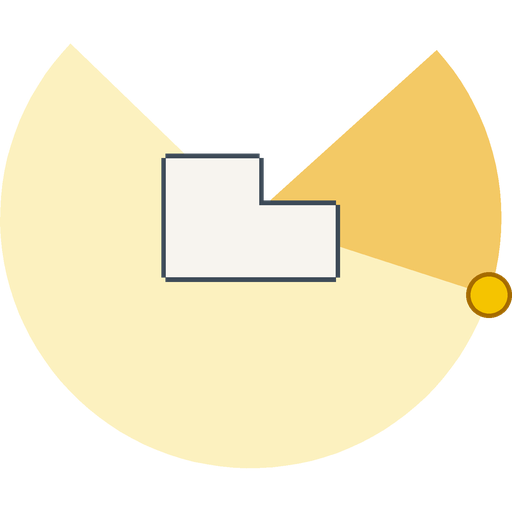
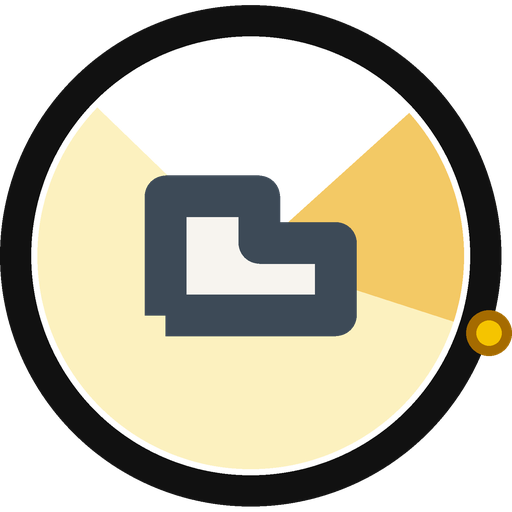
🤖 Draw a heavier ring on the brand mark
The logo and icon were too fine to read at the size Home Assistant shows them.

diff --git a/scripts/brand.py b/scripts/brand.py
@@ -31,6 +31,8 @@ PALE = (246, 216, 74, 90)
 STRONG = (240, 180, 41, 184)
 SUN = (245, 196, 0, 255)
 SUN_EDGE = (165, 107, 0, 255)
+RING = (17, 17, 17, 255)
+RING_HALO = (255, 255, 255, 255)
 
 # A northern summer day: sunrise in the north-east, sun mid-morning, sunset north-west.
 RISE, NOW, SET = 48.0, 108.0, 314.0
@@ -67,24 +69,39 @@ def _house(centre: float, rim: float) -> list[tuple[float, float]]:
     return [(centre + east * scale, centre - north * scale) for east, north in corners]
 
 
+def _weights(rim: float) -> tuple[int, int, int]:
+    """Ring, a slim light edge, and a house stroke heavier than the ring.
+
+    The mark is shown at a few dozen pixels, so the strokes are a larger
+    share of the disc than on the card.
+    """
+    ring = max(3, round(rim / 8))
+    halo = ring + max(4, round(rim / 40))
+    house = max(ring, round(rim / 6))
+    return ring, halo, house
+
+
 def draw_mark(image: Image.Image, centre: float, rim: float, dark: bool) -> None:
-    """The wedge, the house and the sun, centred in ``image``."""
+    """The wedge, the ring, the house and the sun, centred in ``image``."""
     draw = ImageDraw.Draw(image, "RGBA")
     draw.polygon(_sector(RISE, SET, rim, centre), fill=PALE)
     draw.polygon(_sector(RISE, NOW, rim, centre), fill=STRONG)
+    ring, halo, house_width = _weights(rim)
+    disc = (centre - rim, centre - rim, centre + rim, centre + rim)
+    draw.ellipse(disc, outline=RING_HALO, width=halo)
+    draw.ellipse(disc, outline=RING, width=ring)
     house = _house(centre, rim)
     fill = (36, 48, 64, 255) if dark else (247, 244, 239, 255)
     edge = (244, 247, 251, 255) if dark else (61, 74, 87, 255)
-    width = max(2, int(rim / 28))
-    draw.line([*house, house[0]], fill=edge, width=width)
-    draw.polygon(house, fill=fill, outline=edge)
+    draw.polygon(house, fill=fill)
+    draw.line([*house, house[0]], fill=edge, width=house_width, joint="curve")
     sun = _at(NOW, rim, centre)
     radius = max(4, int(rim / 11))
     draw.ellipse(
         (sun[0] - radius, sun[1] - radius, sun[0] + radius, sun[1] + radius),
         fill=SUN,
         outline=SUN_EDGE,
-        width=max(2, width // 2),
+        width=max(2, ring // 3),
     )
 
 
@@ -158,30 +175,41 @@ def _svg(dark: bool) -> str:
     fill = "#243040" if dark else "#f7f4ef"
     centre, rim = 256.0, 184.0
     sun = _at(NOW, rim, centre)
+    ring, halo, house_width = _weights(rim)
+    outer = rim + halo / 2
     points = [
         *_sector(RISE, SET, rim, centre),
         *_house(centre, rim),
+        (centre - outer, centre),
+        (centre + outer, centre),
+        (centre, centre - outer),
+        (centre, centre + outer),
         (sun[0] - 24, sun[1]),
         (sun[0] + 24, sun[1]),
         (sun[0], sun[1] - 24),
         (sun[0], sun[1] + 24),
     ]
-    pad = 8.0
+    pad = 4.0
     left = min(point[0] for point in points) - pad
     top = min(point[1] for point in points) - pad
     right = max(point[0] for point in points) + pad
     bottom = max(point[1] for point in points) + pad
 
-    def ring(start: float, end: float) -> str:
+    def sector(start: float, end: float) -> str:
         return " ".join(f"{x:.1f},{y:.1f}" for x, y in _sector(start, end, rim, centre))
 
     house = " ".join(f"{x:.1f},{y:.1f}" for x, y in _house(centre, rim))
     return (
         f'<svg xmlns="http://www.w3.org/2000/svg" viewBox="{left:.1f} {top:.1f} '
         f'{right - left:.1f} {bottom - top:.1f}">'
-        f'<polygon points="{ring(RISE, SET)}" fill="#f6d84a" fill-opacity="0.35"/>'
-        f'<polygon points="{ring(RISE, NOW)}" fill="#f0b429" fill-opacity="0.72"/>'
-        f'<polygon points="{house}" fill="{fill}" stroke="{edge}" stroke-width="8"/>'
+        f'<polygon points="{sector(RISE, SET)}" fill="#f6d84a" fill-opacity="0.35"/>'
+        f'<polygon points="{sector(RISE, NOW)}" fill="#f0b429" fill-opacity="0.72"/>'
+        f'<circle cx="{centre:.1f}" cy="{centre:.1f}" r="{rim:.1f}" fill="none" '
+        f'stroke="#ffffff" stroke-width="{halo}"/>'
+        f'<circle cx="{centre:.1f}" cy="{centre:.1f}" r="{rim:.1f}" fill="none" '
+        f'stroke="#111111" stroke-width="{ring}"/>'
+        f'<polygon points="{house}" fill="{fill}" stroke="{edge}" '
+        f'stroke-width="{house_width}"/>'
         f'<circle cx="{sun[0]:.1f}" cy="{sun[1]:.1f}" r="18" fill="#f5c400" '
         f'stroke="#a56b00" stroke-width="6"/></svg>\n'
     )
